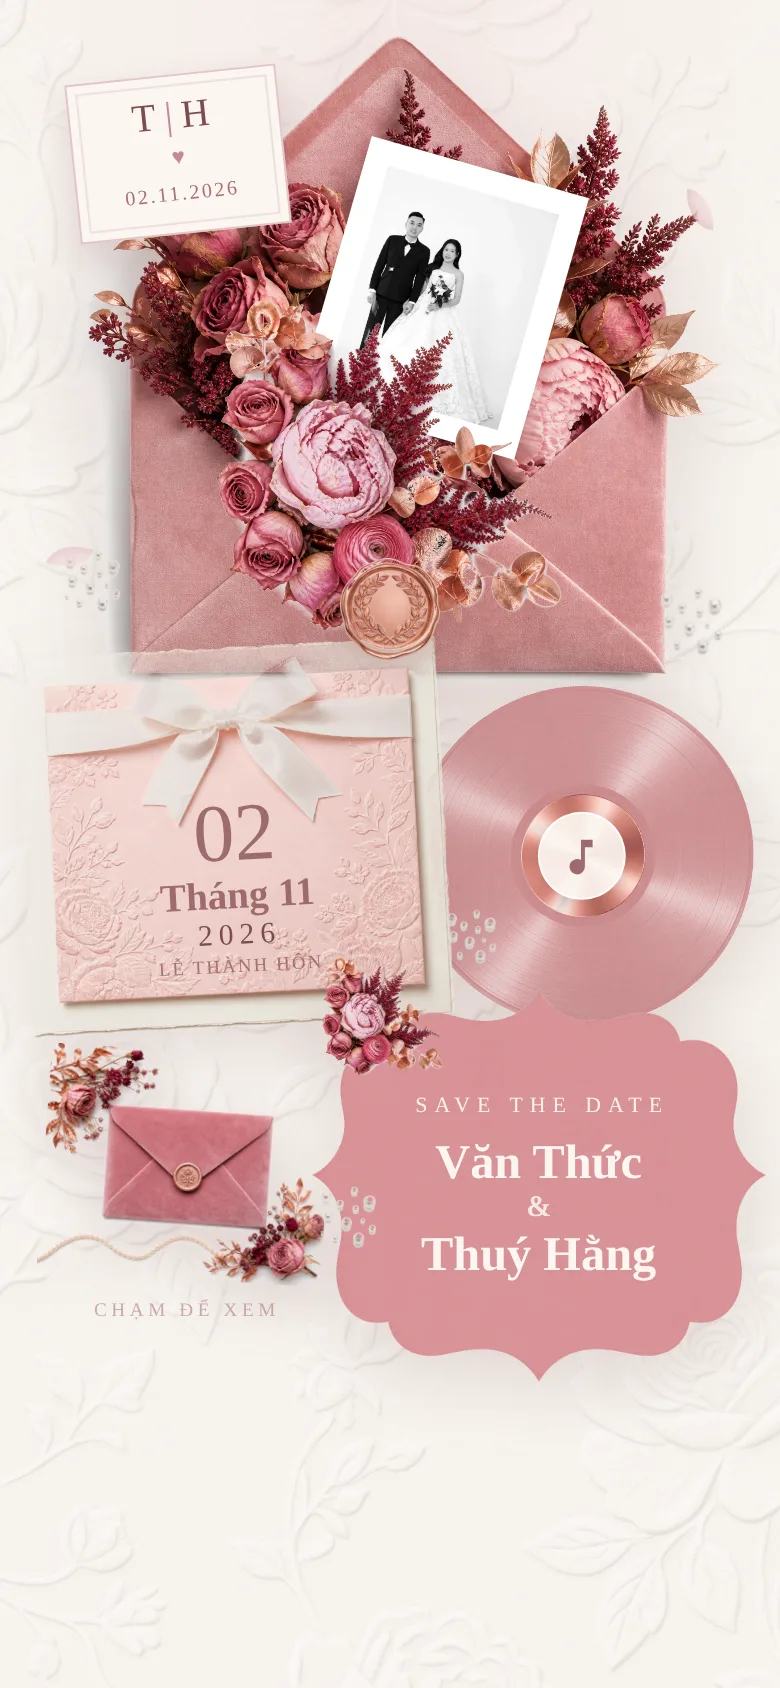
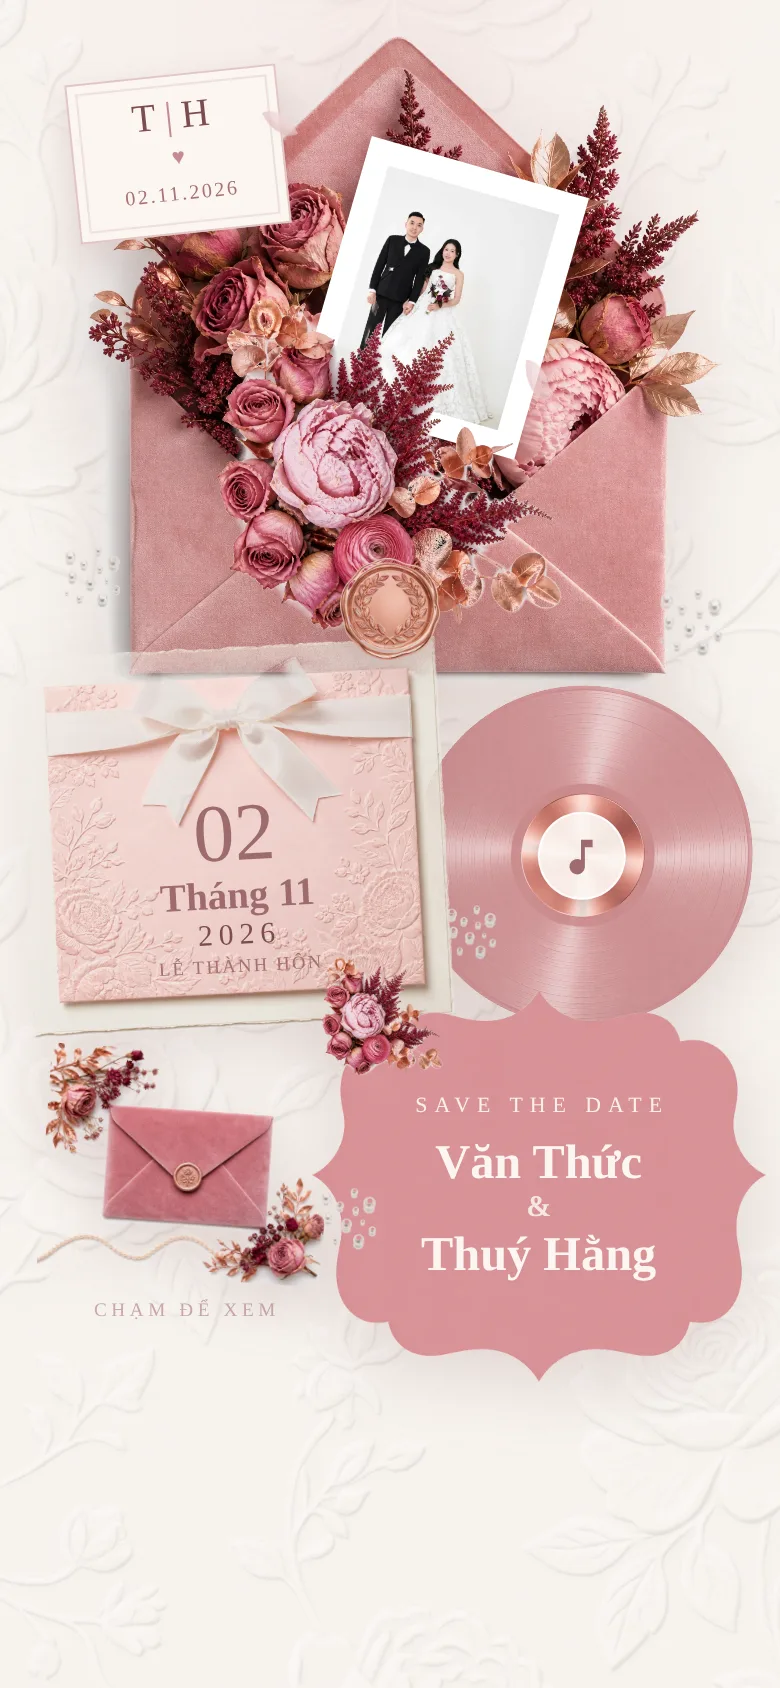
van-thuc-thuy-hang: bo filter den trang anh hero (anh goc mau)

diff --git a/products/Invitation/Wedding/khach_van-thuc-thuy-hang/index.html b/products/Invitation/Wedding/khach_van-thuc-thuy-hang/index.html
@@ -132,7 +132,7 @@ body.opened .layer.fx-right { animation-name: fadeInRight; }
   transform: rotate(16deg); transform-origin: center; overflow: hidden;
   background: #fff; padding: 3.5%; box-shadow: 0 6px 14px rgba(125,76,77,0.25);
 }
-.env-photo img { width: 100%; height: 100%; object-fit: cover; object-position: center 20%; filter: grayscale(1) contrast(1.05); }
+.env-photo img { width: 100%; height: 100%; object-fit: cover; object-position: center 20%; }
 .env-flowers { position: absolute; left: 24%; top: 40%; width: 52%; z-index: 3; pointer-events: none; }
 .env-flowers img { animation: sway 6s ease-in-out infinite; transform-origin: 50% 80%; }
 .l-mono { left: 5%; top: 3%; width: 30%; z-index: 5; transform: rotate(-6deg); animation-delay: 0.5s; }
